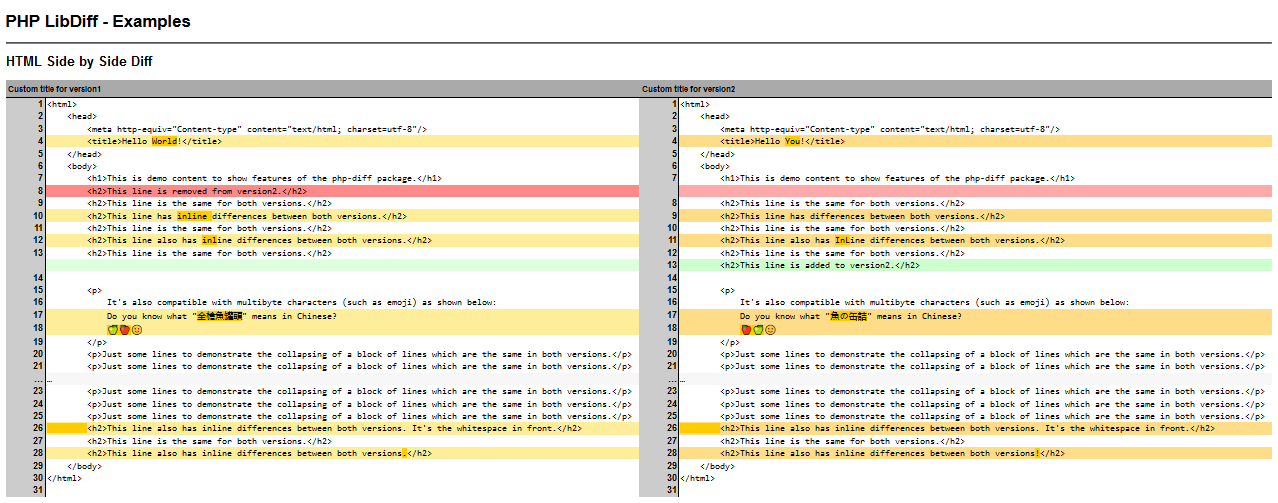
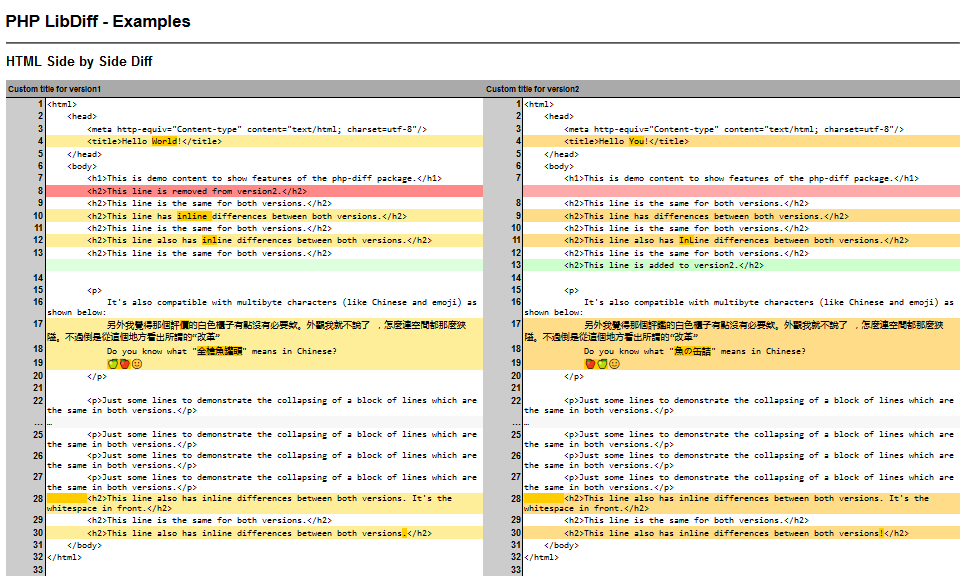
Add trimEqual option.
Closes #24.
- As well as the Diff class as the SequenceMatcher class, both have
'trimEqual' added as an option. When set to false, equal lines of text
won't be stripped of the start and end of the text.
- Re-added long Chinese line to the example and test resources.

diff --git a/lib/jblond/Diff/SequenceMatcher.php b/lib/jblond/Diff/SequenceMatcher.php
@@ -68,9 +68,11 @@ class SequenceMatcher
      * @var array
      */
     private $defaultOptions = array(
-        'ignoreNewLines' => false,
+        'context' => 3,
+        'trimEqual' => true,
         'ignoreWhitespace' => false,
-        'ignoreCase' => false
+        'ignoreCase' => false,
+        'ignoreNewLines' => false,
     );
 
     /**
@@ -84,7 +86,7 @@ class SequenceMatcher
      * @param string|array|null $junkCallback Either an array or string that references a callback function
      * (if there is one) to determine 'junk' characters.
      */
-    public function __construct($old, $new, array $options, $junkCallback = null)
+    public function __construct($old, $new, array $options = [], $junkCallback = null)
     {
         $this->old = array();
         $this->new = array();
@@ -381,9 +383,9 @@ class SequenceMatcher
 
         $matchingBlocks = array();
         while (!empty($queue)) {
-            list($alo, $ahi, $blo, $bhi) = array_pop($queue);
+            [$alo, $ahi, $blo, $bhi] = array_pop($queue);
             $longestMatch = $this->findLongestMatch($alo, $ahi, $blo, $bhi);
-            list($list1, $list2, $list3) = $longestMatch;
+            [$list1, $list2, $list3] = $longestMatch;
             if ($list3) {
                 $matchingBlocks[] = $longestMatch;
                 if ($alo < $list1 && $blo < $list2) {
@@ -524,7 +526,7 @@ class SequenceMatcher
 
     /**
      * Return a series of nested arrays containing different groups of generated
-     * op codes for the differences between the strings with up to $context lines
+     * op codes for the differences between the strings with up to $this->options['context'] lines
      * of surrounding content.
      *
      * Essentially what happens here is any big equal blocks of strings are stripped
@@ -533,10 +535,10 @@ class SequenceMatcher
      * content of the different files but can still provide context as to where the
      * changes are.
      *
-     * @param int $context The number of lines of context to provide around the groups.
+     * @param int $this->options['context'] The number of lines of context to provide around the groups.
      * @return array Nested array of all of the grouped op codes.
      */
-    public function getGroupedOpCodes(int $context = 3): array
+    public function getGroupedOpCodes(): array
     {
         $opCodes = $this->getOpCodes();
         if (empty($opCodes)) {
@@ -551,47 +553,51 @@ class SequenceMatcher
             );
         }
 
-        if ($opCodes['0']['0'] == 'equal') {
-            $opCodes['0'] = array(
-                $opCodes['0']['0'],
-                max($opCodes['0']['1'], $opCodes['0']['2'] - $context),
-                $opCodes['0']['2'],
-                max($opCodes['0']['3'], $opCodes['0']['4'] - $context),
-                $opCodes['0']['4']
-            );
+        if ($this->options['trimEqual']) {
+            if ($opCodes['0']['0'] == 'equal') {
+                // Remove sequences at the start which are out of context.
+                $opCodes['0'] = array(
+                    $opCodes['0']['0'],
+                    max($opCodes['0']['1'], $opCodes['0']['2'] - $this->options['context']),
+                    $opCodes['0']['2'],
+                    max($opCodes['0']['3'], $opCodes['0']['4'] - $this->options['context']),
+                    $opCodes['0']['4']
+                );
+            }
+
+            $lastItem = count($opCodes) - 1;
+            if ($opCodes[$lastItem]['0'] == 'equal') {
+                [$tag, $i1, $i2, $j1, $j2] = $opCodes[$lastItem];
+                // Remove sequences at the end which are out of context.
+                $opCodes[$lastItem] = array(
+                    $tag,
+                    $i1,
+                    min($i2, $i1 + $this->options['context']),
+                    $j1,
+                    min($j2, $j1 + $this->options['context'])
+                );
+            }
         }
 
-        $lastItem = count($opCodes) - 1;
-        if ($opCodes[$lastItem]['0'] == 'equal') {
-            list($tag, $i1, $i2, $j1, $j2) = $opCodes[$lastItem];
-            $opCodes[$lastItem] = array(
-                $tag,
-                $i1,
-                min($i2, $i1 + $context),
-                $j1,
-                min($j2, $j1 + $context)
-            );
-        }
-
-        $maxRange = $context * 2;
+        $maxRange = $this->options['context'] * 2;
         $groups = array();
         $group = array();
 
-        foreach ($opCodes as [$tag, $i1, $i2, $j1, $j2]) {
+        foreach ($opCodes as $key => [$tag, $i1, $i2, $j1, $j2]) {
             if ($tag == 'equal' && $i2 - $i1 > $maxRange) {
                 $group[] = array(
                     $tag,
                     $i1,
-                    min($i2, $i1 + $context),
+                    min($i2, $i1 + $this->options['context']),
                     $j1,
-                    min($j2, $j1 + $context)
+                    min($j2, $j1 + $this->options['context'])
                 );
                 $groups[] = $group;
                 $group = array();
-                $i1 = max($i1, $i2 - $context);
-                $j1 = max($j1, $j2 - $context);
+                $i1 = max($i1, $i2 - $this->options['context']);
+                $j1 = max($j1, $j2 - $this->options['context']);
             }
-            echo '';
+
             $group[] = array(
                 $tag,
                 $i1,
@@ -601,7 +607,8 @@ class SequenceMatcher
             );
         }
 
-        if (!empty($group) && !(count($group) == 1 && $group[0][0] == 'equal')) {
+        if ($this->options['trimEqual'] || (!empty($group) && !(count($group) == 1 && $group[0][0] == 'equal'))) {
+            //Do not add the last sequences. They're out of context.
             $groups[] = $group;
         }
 

diff --git a/tests/Diff/SequenceMatcherTest.php b/tests/Diff/SequenceMatcherTest.php
@@ -1,0 +1,55 @@
+<?php
+
+namespace Diff\Renderer;
+
+use jblond\Diff\SequenceMatcher;
+use PHPUnit\Framework\TestCase;
+
+class SequenceMatcherTest extends TestCase
+{
+
+    /**
+     * Constructor.
+     *
+     * @param null   $name
+     * @param array  $data
+     * @param string $dataName
+     */
+    public function __construct($name = null, array $data = [], $dataName = '')
+    {
+        parent::__construct($name, $data, $dataName);
+    }
+
+    public function testGetGroupedOpCodes()
+    {
+        // Test with default options.
+        $sequenceMatcher = new SequenceMatcher('54321ABXDE12345', '54321ABxDE12345');
+        $this->assertEquals(
+            [[['equal', 4, 7, 4, 7], ['replace', 7, 8, 7, 8], ['equal', 8, 11, 8, 11]]],
+            $sequenceMatcher->getGroupedOpCodes()
+        );
+
+        // Test with trimEqual disabled.
+        $sequenceMatcher = new SequenceMatcher('54321ABXDE12345', '54321ABxDE12345', ['trimEqual' => false]);
+        $this->assertEquals(
+            [[['equal', 0, 3, 0, 3]], [['equal', 4, 7, 4, 7], ['replace', 7, 8, 7, 8], ['equal', 8, 11, 8, 11]]],
+            $sequenceMatcher->getGroupedOpCodes()
+        );
+
+        // Test with ignoreWhitespace enabled.
+        // Note: The sequenceMatcher evaluates the string character by character. Option ignoreWhitespace will ignore
+        //       if the difference if the character is a tab in one sequence and a space in the other.
+        $sequenceMatcher = new SequenceMatcher("\t54321ABXDE12345 ", " 54321ABXDE12345\t", ['ignoreWhitespace' => true]);
+        $this->assertEquals(
+            [[['equal', 14, 17, 14, 17]]],
+            $sequenceMatcher->getGroupedOpCodes()
+        );
+
+        // Test with ignoreCase enabled.
+        $sequenceMatcher = new SequenceMatcher('54321ABXDE12345', '54321ABxDE12345', ['ignoreCase' => true]);
+        $this->assertEquals(
+            [[['equal', 12, 15, 12, 15]]],
+            $sequenceMatcher->getGroupedOpCodes()
+        );
+    }
+}

diff --git a/lib/jblond/Diff.php b/lib/jblond/Diff.php
@@ -51,6 +51,7 @@ class Diff
      * @var array   Associative array containing the default options available for the diff class and their default
      *              value.
      *              - context           The amount of lines to include around blocks that differ.
+     *              - trimEqual         Strip blocks of equal lines from the start and end of the text.
      *              - ignoreWhitespace  When true, tabs and spaces are ignored while comparing.
      *                                  The spacing of version1 is leading.
      *              - ignoreCase        When true, character casing is ignored while comparing.
@@ -58,6 +59,7 @@ class Diff
      */
     private $defaultOptions = [
         'context'          => 3,
+        'trimEqual'        => true,
         'ignoreWhitespace' => false,
         'ignoreCase'       => false,
     ];

diff --git a/example/example.php b/example/example.php
@@ -17,14 +17,16 @@ $a = file_get_contents(dirname(__FILE__) . '/a.txt');
 $b = file_get_contents(dirname(__FILE__) . '/b.txt');
 
 // Options for generating the diff.
-$options = [
+$customOptions = [
+    'context'          => 2,
+    'trimEqual'        => false,
     'ignoreWhitespace' => true,
     'ignoreCase'       => true,
-    'context'          => 2,
 ];
 
-// Initialize the diff class.
-$diff = new Diff($a, $b /*, $options */);
+// Choose one of the initializations.
+$diff = new Diff($a, $b);                   // Initialize the diff class with default options.
+//$diff = new Diff($a, $b, $customOptions); // Initialize the diff class with custom options.
 ?><!DOCTYPE html>
 <html lang="en">
     <head>
